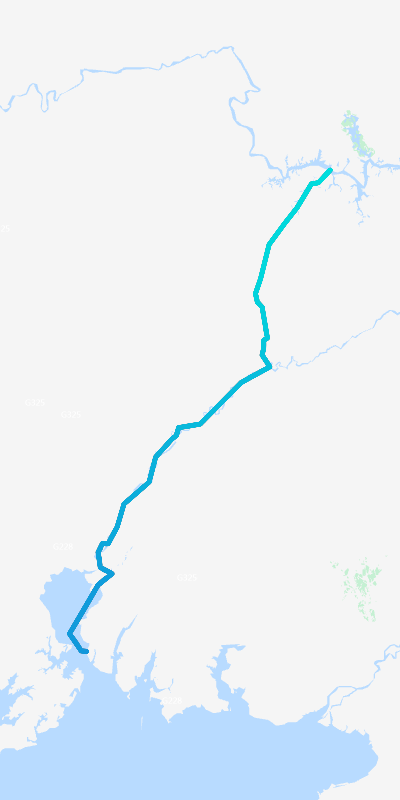
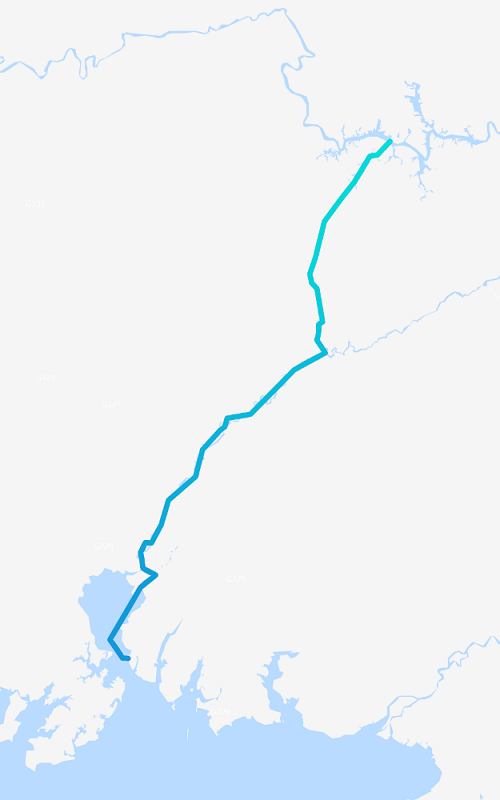
体验改进

diff --git a/src/components/map3dCanalThumbnail.vue b/src/components/map3dCanalThumbnail.vue
@@ -4,7 +4,8 @@
         :class="{'grabbing': isGrabbing}"
         @touchstart="onBoxPointerDown"
         @mousedown="onBoxPointerDown"
-        @transitionend="onBoxTransitionEnd">
+        @transitionend="onBoxTransitionEnd"
+        @dblclick="toggleZoomIn">
         <a class="mct-view-close" @click="toggleShowing"></a>
         <img ref="imgBox" class="mct-view-pin" draggable="false" :src="publicAssets.iconSharePictureRed" :style="imgStyle" />
     </div>
@@ -26,8 +27,8 @@
     });
     const $instance = getCurrentInstance();
     
-    const southWestLnglat = ([108.40466648088292, 21.452630195172333]); //西南角经纬度
-    const northEastLnglat = ([109.21613881618927, 22.963278412387110]); //东北角经纬度
+    const southWestLnglat = [108.33817494075683, 21.484622240807173]; //西南角经纬度，GCJ02坐标
+    const northEastLnglat = [109.28198237012651, 22.891271741127913]; //东北角经纬度，GCJ02坐标
     const movementXY = [0, 0]; //单指移动时的位置
     const limitXM = [0, 0]; //可滑动的 minX ~ maxX
     const limitYM = [0, 0]; //可滑动的 minY ~ maxY
@@ -37,6 +38,7 @@
     const isShowing = ref(true);
     const isGrabbing = ref(false);
     const needTransition = ref(false); //是否需要动画支持
+    const isZoomIn = ref(false); //缩略图是否放大显示
     const boxRect = reactive({
         boxWidth: 0,
         boxHeight: 0,
@@ -45,10 +47,11 @@
         pxPerLnglatX: 0,
         pxPerLnglatY: 0,
     });
-    const posXY = reactive([0, 0]);
+    const posXY = reactive([0, 0, 0]); //第一、二元素指定当前位置，第三个元素指示是靠左（0）还是靠右（1）停靠
     const divStyle = computed(() => ({
         transition: (needTransition.value ? "transform 200ms ease-out 0s" : "none"),
-        transform: `translate(${posXY[0]}px, ${posXY[1]}px)`,
+        transform: `translate(${posXY[0]}px, ${posXY[1]}px) scale(${isZoomIn.value ? 4 : 1})`,
+        transformOrigin: (!posXY[2] ? "0% 0%" : "100% 0%")
     }));
     const imgStyle = computed(() => ({
         left: Math.round((props.picLng - southWestLnglat[0]) * boxRect.pxPerLnglatX - boxRect.imgWidth / 2) + "px",
@@ -66,6 +69,10 @@
     }
     function toggleShowing(){
         isShowing.value = !isShowing.value;
+    }
+    function toggleZoomIn(){
+        needTransition.value = true;
+        isZoomIn.value = !isZoomIn.value;
     }
     function onBoxPointerDown(evt){
         //console.log("指针按下…", evt);
@@ -121,6 +128,7 @@
             
             posXY[0] = (posXY[0] > (wiw / 2) ? (wiw - boxRect.boxWidth - BOX_MARGIN_PX) : BOX_MARGIN_PX);
             posXY[1] = getNumberBetween(posXY[1], BOX_MARGIN_PX, wih - boxRect.boxHeight - BOX_MARGIN_PX);
+            posXY[2] = (posXY[0] === BOX_MARGIN_PX ? 0 : 1);
             
             needTransition.value = (olds[0] !== posXY[0] || olds[1] !== posXY[1]);
 
@@ -143,8 +151,17 @@
         
         limitXM[1] = (window.innerWidth - boxRect.boxWidth);
         limitYM[1] = (window.innerHeight - boxRect.boxHeight);
-        posXY[0] = BOX_MARGIN_PX;
-        posXY[1] = window.innerHeight / 2;
+        posXY[0] = limitXM[1] - BOX_MARGIN_PX;
+        posXY[1] = BOX_MARGIN_PX;
+        posXY[2] = 1;// 默认靠右停靠！
+        
+        //只有在可视范围内才显示地图缩略图
+        isShowing.value = !!(
+            props.picLng >= southWestLnglat[0] && 
+            props.picLng <= northEastLnglat[0] &&
+            props.picLat >= southWestLnglat[1] &&
+            props.picLat <= northEastLnglat[1]
+        );
     });
 </script>
 
@@ -155,12 +172,12 @@
         top: 0;
         z-index: 8888;
         width: 4rem;
-        height: 8rem;
+        height: 6.4rem;
         background-position: 0% 0%;
         background-size: 100% 100%;
         background-repeat: no-repeat;
         background-image: var(--bg-map-canal-thumbnail);
-        box-shadow: 0 0 0.5rem 0 #ccc;
+        box-shadow: 0 0 0.3rem 0 #aaa;
         border-radius: 0.3rem;
         cursor: grab;
     }
@@ -180,9 +197,8 @@
         display: block;
         position: absolute;
         inset: 0.2rem 0.2rem auto auto;
-        width: 0.8rem;
-        height: 0.8rem;
-        padding: 0.1rem;
+        width: 0.6rem;
+        height: 0.6rem;
         z-index: 8;
         background-position: 0% 0%;
         background-size: 100% 100%;

diff --git a/src/views/test/mapDev.vue b/src/views/test/mapDev.vue
@@ -7,7 +7,7 @@
 <script setup name="TestMapDev">
     import { onMounted, onUnmounted, getCurrentInstance } from "vue";
     import { getCanalGeoJSON, combineCanalGeoJSON } from "@/assets/data/canalGeo.js";
-    import { toBMapPoints, getPolylineColorList, gcj02ToBD09, bd09ToGCJ02 } from "@/utils/maphelper.js";
+    import { toBMapPoints, getPolylineColorList, gcj02ToBD09, bd09ToGCJ02, gcj02ToMapPoint } from "@/utils/maphelper.js";
     import { appMainColor } from "@/assets/data/constants.js";
     
     import axios from "axios";
@@ -33,14 +33,19 @@
         //mapInstance.addControl(new BMapGL.ZoomControl({ anchor: BMAP_ANCHOR_BOTTOM_RIGHT }));//添加缩放控件
         //mapInstance.addControl(new BMapGL.NavigationControl3D({ anchor: BMAP_ANCHOR_BOTTOM_RIGHT }));//添加导航控件
         mapInstance.setMapStyleV2(bdMapStyle);
-        mapInstance.setViewport([ //默认视图款
-            (new BMapGL.Point(108.415365, 22.817497)), //镇
-            (new BMapGL.Point(109.375871, 21.592572))
-            /* (new BMapGL.Point(108.170678, 23.149844)), //县
-            (new BMapGL.Point(109.640205, 21.562765)) */
-            /* (new BMapGL.Point(107.078087, 24.154377)), //市
-            (new BMapGL.Point(110.108998, 21.483755)) */
-        ]);
+        mapInstance.setViewport(
+            combineCanalGeoJSON().map(gcj02ToMapPoint)
+            //[ //默认视图款
+                /* (new BMapGL.Point(108.415365, 22.817497)), //镇
+                (new BMapGL.Point(109.375871, 21.592572)) */
+                /* (new BMapGL.Point(108.170678, 23.149844)), //县
+                (new BMapGL.Point(109.640205, 21.562765)) */
+                /* (new BMapGL.Point(107.078087, 24.154377)), //市
+                (new BMapGL.Point(110.108998, 21.483755)) */
+            //]
+        );
+        
+        console.log(mapInstance.getCenter());
     }
     
     onMounted(() => {
@@ -106,11 +111,15 @@
             console.log(bd09ToGCJ02(bds.getSouthWest()), bd09ToGCJ02(bds.getNorthEast()));
         });
         mapInstance.addEventListener("dragging", function(){
-            const idx = canalPoints.length - 3;
+            const idx1 = canalPoints.length - 3;
+            const idx2 = canalPoints.length - 1;
             const p1 = mapInstance.pointToPixel(new BMapGL.Point(canalPoints[0][0], canalPoints[0][1]));
-            const p2 = mapInstance.pointToPixel(new BMapGL.Point(canalPoints[idx][0], canalPoints[idx][1]));
+            const p2 = mapInstance.pointToPixel(new BMapGL.Point(canalPoints[idx1][0], canalPoints[idx2][1]));
             
-            console.log(400 - p1.x, p1.y, "::::", p2.x, 800 - p2.y);
+            console.log(500 - p1.x, p1.y, "::::", p2.x, 800 - p2.y);
+        });
+        mapInstance.addEventListener("zoomend", function(){
+            mapInstance.panTo(new BMapGL.Point(108.8165719411708, 22.19572696949766));
         });
         
         /* const dddd = getCanalGeoJSON();
@@ -146,7 +155,7 @@
 
 <style scoped="scoped">
     .map-dev-box{
-        width: 20rem;
+        width: 25rem;
         height: 40rem;
     }
     :deep(.anchorBL){display:none !important;}
